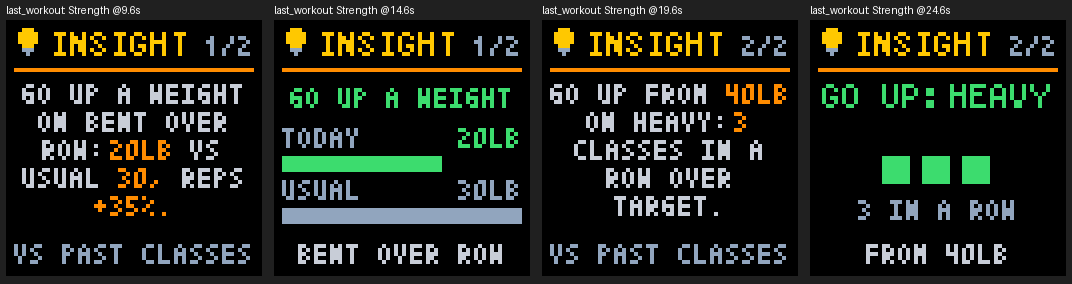
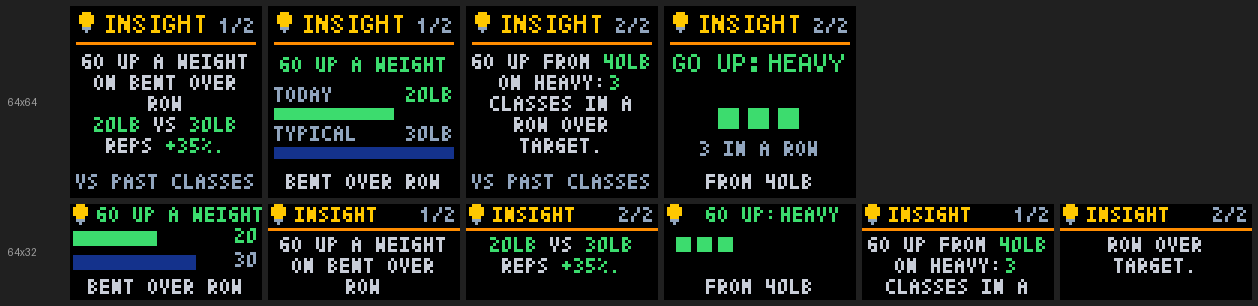
Docs: architecture diagrams, workout insights, Wi-Fi boot fix, README catch-up
- README: Architecture section with three Mermaid diagrams (the board's
  services and files, the display's data flow, releases and updates); a
  refreshed code map; a Workout insights section with new screenshots; and
  fixes for everything out of date (intro, name-page seconds, journey
  decimals, milestone celebrations, CI branches, pr_max_age_days,
  users[].journey, the full config example, the removed compact layout).
- Screenshots redrawn with today's code: journey, goals, next-milestone,
  both insights strips, and the bike and row bootcamp intros.
- docs/install.md and CLAUDE.md: the comitup boot race (hotspot after a cold
  boot with the saved Wi-Fi in range) and the drop-in that fixes it
  (LightningLane-Live-LED #222), plus the countdown's new wording.

diff --git a/README.md b/README.md
@@ -4,7 +4,7 @@
 
 ![Tests](https://github.com/jc214809/Peloton-LED/actions/workflows/tests.yml/badge.svg) [![codecov](https://codecov.io/gh/jc214809/Peloton-LED/graph/badge.svg)](https://codecov.io/gh/jc214809/Peloton-LED)
 
-A Python dashboard for a Raspberry Pi RGB LED matrix, with a desktop browser emulator. Shows every completed workout from your latest active day, one-time personal-record celebrations, username, and lifetime workout counts by discipline.
+A Python dashboard for a Raspberry Pi RGB LED matrix (64×64 or 64×32), with a desktop browser emulator. It shows every completed workout from your latest active day (with personal-record celebrations and optional insights against your similar workouts), your name with rotating highlights, streaks, a household head-to-head, lifetime counts by discipline, milestone countdowns and celebrations, your lifetime miles as a trip, a 12-week heatmap and weekly goals. Each board has a settings page and updates itself.
 
 ## Setup
 
@@ -82,8 +82,8 @@ Default order:
 
 | Section | What it shows | Shown when | Time on screen |
 |---|---|---|---|
-| [`latest_workouts`](#latest_workouts--last-active-days-workouts) | Every workout from your most recent active day, then a PR celebration after a record-setting one | Always (a status screen stands in when there's no workout data) | `last_workout_detail_interval` × (1 + number of stats), plus 1 s each for the graph and zone bar, per workout |
-| [`username`](#username--rider-name-and-highlights) | Your name over rotating highlights: total workouts, the two most interesting facts right now, then an instructor top 3 | Always | `duration`, shared by the highlights (at least 4 s each) |
+| [`latest_workouts`](#latest_workouts--last-active-days-workouts) | Every workout from your most recent active day, then a PR celebration after a record-setting one; optionally up to two insights comparing it with your similar workouts | Always (a status screen stands in when there's no workout data) | `last_workout_detail_interval` × (1 + number of stats), plus 1 s each for the graph, zone bar and each insight frame, per workout; then the PR card when there is one |
+| [`username`](#username--rider-name-and-highlights) | Your name over rotating highlights: total workouts, the two most interesting facts right now, then an instructor top 3 | Always | `duration`, shared by the highlights (at least 5 s each) |
 | [`streaks`](#streaks--weekly-and-daily-streaks) | Current weekly streak and your best, or your daily streak on alternate passes; or a weekend reminder when this week has no workout yet | Weekly streak above 0 or daily streak of 2+ days | `overview_duration` |
 | [`versus`](#versus--household-head-to-head) | Two riders side by side for this week | 2+ riders configured under `users` | `overview_duration` (64×32: shared by its 3 stats, at least 12 s) |
 | [`total_workouts`](#total_workouts--lifetime-total) | Lifetime total workout count | Profile totals available | Same as `lifetime` (at least 5 s) |
@@ -169,6 +169,25 @@ Every discipline then adds the graph and zone bar if they're available.
 
 ![PR workout followed by the PR celebration](docs/screenshots/rotation/pr-celebration.png)
 
+**Workout insights** (off by default). After a workout's stats and charts, the board can say how it compared with your similar earlier workouts, in up to two insights. It works for Cycling, Bike Bootcamp, Rowing, Row Bootcamp, Running, Walking, Tread Bootcamp and Strength. Every insight comes from fixed rules over your own numbers (no AI model), and a workout with nothing worth saying shows none.
+
+![Cycling insights: output down, then hardest ride by heart rate](docs/screenshots/rotation/insights-bike.png)
+
+![Strength insights: go up a weight, then three classes in a row over target](docs/screenshots/rotation/insights-strength.png)
+
+"Similar" means the same discipline, class type and mode (plain, arms or floor), indoor or outdoor, completed, and within 30% of the length, from the last year (two years if the last year has too few). Your typical figure is the middle of those workouts. What it can say, in the order it's chosen:
+
+| Insight | Colour | Example |
+|---|---|---|
+| Output (bike, rower) or speed (tread, walk, run) against your typical | Green up, amber down, white when it's in your typical range | `OUTPUT DOWN VS YOUR TYPICAL / 124 W VS 188 W`; `SAME HEART, MORE POWER.` when your heart rate was within 3 bpm of typical, else `MORE WATTS PER HEARTBEAT.` |
+| Instructor callouts you missed (bike resistance or cadence, rower or tread pace) | Amber | the share of the callout time spent under the range |
+| Strength weights, from that movement's history, else the weight category's | Green, or amber for missed targets | `GO UP A WEIGHT ON BENT OVER ROW`, `WENT HEAVIER`, `GO UP FROM 40LB ON HEAVY: 3 CLASSES IN A ROW OVER TARGET`, missed rep targets |
+| Effort by heart rate | Red hardest, green easiest | `HARDEST RIDE OF YOUR LAST 12 BY HEART RATE`, `STRIVE PER MIN` |
+
+On 64×64 each insight is a card (the sentence, and what it was compared with along the bottom: `9 SIMILAR RIDES`) and then bars (today against your typical, a share, or blocks for classes in a row). On 64×32 the bars come first, then the sentence on one or two pages of three lines. Each frame holds like a chart, `last_workout_detail_interval` plus one second, and adds to the workout page's time.
+
+Turn it on with `"workout_insights": true` under `display`, or the settings page's **Workout insights** card. The board needs your workout history to compare with: copy it once from a Mac that has it with `scripts/push_workout_rows.sh user@board`. After that the board adds each new workout itself, with one extra Peloton request per new workout. The card shows how many workouts each rider has on the board, and warns when the switch is on and a rider has none (that rider just gets no insights). With the switch off the board makes no extra requests and doesn't load the history. Preview them with `python scripts/render_rotation.py --height 64 --demo --insights`.
+
 Options:
 
 - `last_workout_detail_interval` (default `4`): seconds per intro/stat frame.
@@ -212,7 +231,7 @@ A full-size page with your lifetime workout count: the title in `color`, the num
 
 ![Next milestone countdown](docs/screenshots/rotation/next-milestone.png)
 
-A countdown in big type when you're close to a milestone: how many to go (`3 TO GO`, then a small `TILL YOUR`; with one left, `NEXT UP YOUR` instead), the milestone in gold with a raised ending (`2,200TH`), and what it counts (`WORKOUT`, or the discipline's noun in its colour from the `lifetime` page: `RIDE`, `RUN`, `WALK`, `ROW`, else its name), over a progress bar from the previous milestone. On 64x32 it reads `3 MORE / TO 2,200 / WORKOUTS` (the discipline's name there), with no bar.
+A countdown in big type when you're close to a milestone: how many to go (`3 TO GO`, then a small `TILL YOUR`; with one left, `NEXT ONE` then `IS YOUR` instead), the milestone in gold with a raised ending (`2,200TH`), and what it counts (`WORKOUT`, or the discipline's noun in its colour from the `lifetime` page: `RIDE`, `RUN`, `WALK`, `ROW`, else its name), over a progress bar from the previous milestone. On 64x32 it reads `3 MORE / TO 2,200 / WORKOUTS` (the discipline's name there), with no bar.
 
 Your total and each discipline follow the same rule: a page appears only when it's 5 or fewer workouts away (`milestone_within`), closest first and at most 3 pages (`milestone_pages`), so most of the time this section shows nothing. Your total's milestone is the next value in `milestones` above it, else the next multiple of `milestone_step` (default `100`). A discipline's are picked automatically: 25, 50, 100, then every 100. Discipline counts are Peloton's own per-discipline totals, the ones on the `lifetime` pages, so Bike, Tread and Row Bootcamp count separately from rides, runs and rows. Options: `screen_durations.next_milestone` / `overview_duration`, per page.
 
@@ -234,7 +253,7 @@ A GitHub-style grid: one column per week (oldest on the left, this week on the r
 
 ![Journey page](docs/screenshots/rotation/journey.png)
 
-Your lifetime miles as a trip: where you're headed, your total miles, how far is left on this leg and the percent done, a progress bar, and the miles split by how you covered them: **BIKE** (Cycling, Bike Bootcamp), **ROW** (Rowing, Row Bootcamp) and **WALK/RUN** (everything else: tread, outdoor, hiking). 64x64 shows it all on one page. 64x32 shows the trip, then *Miles by type*, sharing the screen's time (at least 4 seconds each; with only one type of miles it stays on the trip). Each step opens with about a second of motion, then holds still: the bar fills while the miles count up across this leg, the bar's tip then pulses gently, and the types come in one after another. Reaching the destination turns you around for the trip home (`TO COLUMBUS`), and so on forever. `TRIP 4` means you're on your fourth one-way leg. Miles show to a tenth (`741.6`) below 1,000 and in whole miles from there, where the decimal wouldn't fit. The route's `miles` can be a decimal too, e.g. `26.2`.
+Your lifetime miles as a trip: where you're headed, your total miles, how far is left on this leg and the percent done, a progress bar, and the miles split by how you covered them: **BIKE** (Cycling, Bike Bootcamp), **ROW** (Rowing, Row Bootcamp) and **WALK/RUN** (everything else: tread, outdoor, hiking). 64x64 shows it all on one page. 64x32 shows the trip, then *Miles by type*, sharing the screen's time (at least 4 seconds each; with only one type of miles it stays on the trip). Each step opens with about a second of motion, then holds still: the bar fills while the miles count up across this leg, the bar's tip then pulses gently, and the types come in one after another. Reaching the destination turns you around for the trip home (`TO COLUMBUS`), and so on forever. `TRIP 4` means you're on your fourth one-way leg. The total shows a tenth of a mile (`741.6`) on both boards, dropping it only where it won't fit; each type's miles show two decimals (`612.40`), fewer where they won't fit, and always add up to the total. The route's `miles` can be a decimal too, e.g. `26.2`.
 
 The default route is Columbus → Disney World, 880 miles, counting every workout that has a distance. Set your own:
 
@@ -294,7 +313,7 @@ Peloton rejected the token or it's missing, or renewal found the rider needs a f
 
 ## Phase 6 customization
 
-Weekly goals are optional. Set `weekly_goals.workouts` and/or `weekly_goals.minutes` to a positive number to add progress screens; zero disables that goal. Progress counts completed workouts from Monday at midnight in the configured/profile timezone. Set `milestones` to lifetime Total Workouts thresholds such as `[100, 250, 500, 1000]`. Each reached threshold celebrates once.
+Weekly goals are optional. Set `weekly_goals.workouts` and/or `weekly_goals.minutes` to a positive number to add progress screens; zero disables that goal. Progress counts completed workouts from Monday at midnight in the configured/profile timezone. Set `milestones` to lifetime Total Workouts thresholds such as `[100, 250, 500, 1000]`. Each reached threshold celebrates for the rest of the day it first shows (see [`milestones`](#milestones--milestone-celebration)).
 
 Set `brightness_schedule` to `null` to retain command-line brightness, or use a day/night schedule:
 
@@ -334,7 +353,7 @@ python -m pytest tests/ -q
 python -m pytest tests/ --cov --cov-report=term-missing   # with coverage
 ```
 
-GitHub Actions runs the tests with coverage on Python 3.11 and 3.13 for every pull request and push to `main`, and uploads the report to [Codecov](https://codecov.io/gh/jc214809/Peloton-LED) (the badges at the top).
+GitHub Actions runs the tests with coverage on Python 3.11 and 3.13 for every pull request and every push to `main` and `develop-beta`, and uploads the report to [Codecov](https://codecov.io/gh/jc214809/Peloton-LED) (the badges at the top).
 
 `--cycles 1` stops after one full rotation. Omit it to run continuously. Durations come from configuration; `--display-duration` overrides only the username screen. The PNG preview uses the same emulator text drawing and screen code, without starting a browser server.
 
@@ -370,6 +389,8 @@ Settings live under `display` in `config.json`. Invalid values produce a startup
 | `milestone_within` | `5` | A `next_milestone` page appears when your total or a discipline is this many workouts or fewer from its next milestone (at least 1) |
 | `milestone_pages` | `3` | At most this many `next_milestone` pages, closest first (at least 1) |
 | `journey` | Columbus → Disney World, 880 mi, every workout with a distance | Lifetime miles shown as a trip: `{"from": "Columbus", "to": "Disney World", "miles": 880}`. Any places and distance; optional `"disciplines"` list narrows which workouts count (see [`journey`](#journey--lifetime-miles-as-a-trip)); also settable per rider under `users[]`. Optional `"start_date": "YYYY-MM-DD"` counts only miles from that day on (display timezone); changing it recounts the full history once on the next refresh |
+| `pr_max_age_days` | `null` | Skip PR celebrations for workouts older than this many days; `null` celebrates any PR not yet shown |
+| `workout_insights` | `false` | After the latest workout, up to two comparisons with your similar earlier workouts. See [Workout insights](#latest_workouts--last-active-days-workouts) |
 | `brightness_schedule` | `null` | Optional day/night brightness schedule. See [Phase 6 customization](#phase-6-customization) |
 | `refresh_schedule` | `null` | Optional overnight quiet-hours polling schedule. See [Phase 6 customization](#phase-6-customization) |
 
@@ -401,24 +422,36 @@ Each refresh saves Peloton's output personal-records table (one record per disci
       "cache_path": "dashboard-cache-joel.json",
       "username": "Joel",
       "weekly_goals": { "workouts": 5, "minutes": 0 },
-      "milestones": [100, 250, 500]
+      "milestones": [100, 250, 500],
+      "journey": { "from": "Columbus", "to": "Disney World", "miles": 880 }
     }
   ],
   "display": {
     "font": "stats",
     "color": "white",
-    "duration": 9,
+    "duration": 30,
     "overview_duration": 4,
     "last_workout_detail_interval": 4,
     "logo_duration": 5,
+    "show_logo": true,
     "logo_path": null,
     "timezone": "America/New_York",
     "refresh_interval": 300,
     "recent_fetch_size": 20,
     "history_batch_size": 100,
     "performance_cache_size": 32,
-    "rotation": ["username", "latest_workouts", "total_workouts", "lifetime", "milestones", "goals"],
-    "screen_durations": { "username": 9, "lifetime": 5, "milestones": 5.8, "goals": 4 },
+    "rotation": ["latest_workouts", "username", "streaks", "versus", "total_workouts",
+                 "next_milestone", "lifetime", "journey", "heatmap", "milestones", "goals"],
+    "screen_durations": { "username": 30, "lifetime": 5, "milestones": 5.8, "goals": 4 },
+    "weekly_goals": { "workouts": 3, "minutes": 300 },
+    "milestones": [250, 500, 1000, 2000],
+    "milestone_step": 100,
+    "milestone_within": 5,
+    "milestone_pages": 3,
+    "streak_reminder_day": 5,
+    "pr_max_age_days": null,
+    "workout_insights": false,
+    "journey": { "from": "Columbus", "to": "Disney World", "miles": 880 },
     "brightness_schedule": null,
     "refresh_schedule": null
   }
@@ -440,6 +473,7 @@ Top-level and per-user fields, and whether each is required:
 | `users[].password_env` | No | Only used for unattended token renewal |
 | `users[].weekly_goals` | No | Falls back to `display.weekly_goals` when omitted |
 | `users[].milestones` | No | Falls back to `display.milestones` when omitted |
+| `users[].journey` | No | Falls back to `display.journey` when omitted |
 | `matrix` | No | LED panel/driver settings, e.g. `{"rows": 32, "gpio_mapping": "adafruit-hat"}`; one key per `--led-*` flag, see the [Installation Guide](docs/install.md#every-peloton_ledpy-command-line-flag). Defaults to a 64×64 panel |
 | `display` | No | Omit entirely to use every default in the table above |
 | every `display.*` key | No | See the configuration table above for each default |
@@ -448,20 +482,158 @@ Top-level and per-user fields, and whether each is required:
 
 Both **64×64** and **64×32** panels are supported; for 64×32 set `"matrix": {"rows": 32}` in `config.json` (or pass `--led-rows 32`). Panels can't report their size, so it has to be set. On 64×32 the workout screen uses the same intro-then-rotating-stats layout as 64×64, adapted to fit: the instructor is the first rotating stat, and the heart-rate/calories bar shows during the stats. See [docs/64x32-NOTES.md](docs/64x32-NOTES.md) for every difference. Preview either size with `python scripts/render_rotation.py --height 32 --demo`.
 
-Live mode cycles through every completed workout on the latest active day. Every discipline uses a safe common layout; cycling/bike bootcamp, running/walking/tread, and rowing/row bootcamp add discipline-specific statistics when Peloton supplies them. Unknown future disciplines still show discipline, title, duration, heart rate, calories, and compatible common metrics. Lifetime totals preserve every discipline and its exact count in separate pixel-icon tiles, four per page on 64×64 and two per page on 64×32. No disciplines are combined. Goals, milestones, scheduled brightness, configurable rotation, and optional two-page 32-row workout details are implemented in Phase 6.
+Live mode cycles through every completed workout on the latest active day. Every discipline uses a safe common layout; cycling/bike bootcamp, running/walking/tread, and rowing/row bootcamp add discipline-specific statistics when Peloton supplies them. Unknown future disciplines still show discipline, title, duration, heart rate, calories, and compatible common metrics. Lifetime totals preserve every discipline and its exact count in separate pixel-icon tiles, four per page on 64×64 and two per page on 64×32. No disciplines are combined. Goals, milestones, scheduled brightness and configurable rotation are implemented in Phase 6.
 
 ## Code map
 
 - `peloton_led.py`: startup and screen rotation
+- `peloton/config.py`: loading and validating `config.json`, per-rider settings
 - `peloton/dashboard.py`, `peloton/cache.py`: background refresh, token reload, snapshots, and recovery
 - `peloton/api.py`: authenticated requests and bounded history pagination
+- `peloton/workout_log.py`: every workout as a slim row, the source of everything derived
+- `peloton/activity.py`, `journey.py`, `goals.py`, `instructors.py`: streaks, heatmap, time frames, journey miles, milestones, instructor counts
+- `peloton/username_facts.py`: the name page's scored highlights
+- `peloton/workout_features.py`, `workout_compare.py`, `workout_insights.py`, `insight_lines.py`, `workout_rows.py`: workout compare and the board's insight pages
 - `peloton/timestamps.py`, `selection.py`, `records.py`, `totals.py`: shared data and lifetime pagination rules
 - `peloton/summaries.py`: metric normalization for screens and reports
+- `peloton/screen_times.py`, `schedule.py`: screen durations, and polling Peloton less often overnight
+- `peloton/notify.py`: Pushover alerts
 - `display/ui/`: screens, the login indicator, the settings PIN overlay and the Wi-Fi setup screen
-- `settings_page/`: the board's settings page (config form, PIN sign-in, its own service)
+- `settings_page/`: the board's settings page (config form, PIN sign-in, logins, updates, power menu; its own service)
+- `self_update/`: `peloton-update` (channels, pre-flight, health check, rollback)
 - `driver/`: hardware/emulator selection
+- `utils/`: matrix settings, health heartbeat, Wi-Fi setup state
 - `scripts/refresh_cookies.py`: browser login, refresh-token renewal, board seeding, and verified token saving
-- `scripts/render_demo.py`: reproducible screen preview
+- `scripts/render_rotation.py`, `render_demo.py`: screen previews (PNG contact sheets)
+- `scripts/list_facts.py`, `workout_insights.py`: checking name-page facts and insights against a real log
+
+## Architecture
+
+### On the board
+
+Four systemd units share one config and the files under `/var/lib/peloton-led`. The display needs no network after start-up; the settings page is its own service, so a config that stops the display can still be fixed.
+
+```mermaid
+flowchart LR
+    subgraph cloud["Internet"]
+        peloton["Peloton API<br/>api.onepeloton.com"]
+        auth0["Peloton login<br/>Auth0 refresh tokens"]
+        github["GitHub<br/>tags and releases"]
+        pushover["Pushover<br/>phone alerts"]
+    end
+
+    subgraph pi["Raspberry Pi"]
+        subgraph units["systemd"]
+            display["peloton-led.service<br/>peloton_led.py<br/>starts as root, drops to peloton-led"]
+            settings["peloton-settings.service<br/>settings_page/server.py<br/>port 8080, root"]
+            timer["peloton-token-refresh.timer<br/>hourly"]
+            renew["peloton-token-refresh.service<br/>scripts/refresh_cookies.py --ensure"]
+            update["peloton-update<br/>self_update/"]
+            comitup["comitup<br/>Wi-Fi or setup hotspot"]
+        end
+
+        subgraph files["Files"]
+            config["config.json<br/>checkout, bound to /etc/peloton-led"]
+            authenv["auth.env<br/>logins, Pushover keys"]
+            tokens["cookies-*.txt + .refresh.json<br/>tokens per rider"]
+            cache["dashboard cache .json<br/>workout log .workouts.json<br/>workout rows .workout-rows.json"]
+            run["/run: health heartbeat,<br/>settings PIN, comitup-state"]
+        end
+
+        panel["RGB LED matrix<br/>64x64 or 64x32"]
+    end
+
+    browser["Phone or laptop browser"]
+
+    timer --> renew
+    renew -- "refresh token" --> auth0
+    renew --> tokens
+    renew -- "failures, recovery" --> pushover
+
+    display -- "token" --> tokens
+    display -- "overview, workouts, graphs" --> peloton
+    display <--> cache
+    display --> config
+    display --> panel
+    display -- "heartbeat" --> run
+    run -- "PIN, hotspot state" --> display
+
+    browser -- "PIN sign-in" --> settings
+    settings -- "validate, .bak, atomic save" --> config
+    settings --> authenv
+    settings -- "restart, stop, reboot, shut down" --> display
+    settings -- "renew now" --> renew
+    settings -- "check, update, roll back" --> update
+    settings -- "PIN" --> run
+
+    update -- "git fetch" --> github
+    update -- "health check, rollback" --> run
+    update -- "failure alert" --> pushover
+
+    comitup -- "state" --> run
+```
+
+### Inside the display
+
+`Dashboard` refreshes on a background thread; the display loop only reads its snapshot, so a slow or failed fetch never stalls the panel.
+
+```mermaid
+flowchart TB
+    subgraph start["Start-up: peloton_led.py main()"]
+        cfg["peloton/config.py<br/>load and validate config"]
+        matrix["driver/<br/>rgbmatrix or emulator"]
+        fonts["display/display.py<br/>fonts and colours"]
+        profiles["configured_profiles<br/>one Dashboard per rider"]
+    end
+
+    subgraph data["Data: peloton/, one background thread per rider"]
+        api["api.py PelotonClient<br/>Bearer token, 401 = login required"]
+        dash["dashboard.py Dashboard<br/>refresh, cache, stale and login flags"]
+        log["workout_log.py WorkoutLog<br/>every workout, backfilled in batches"]
+        derived["Derived from the log<br/>activity.py streaks, heatmap, time frames<br/>journey.py miles<br/>goals.py milestones<br/>instructors, records, totals"]
+        facts["username_facts.py<br/>name-page highlights, scored with cool-down"]
+        insight["workout_features.py<br/>workout_compare.py<br/>workout_insights.py<br/>insight_lines.py"]
+        rows["workout_rows.py RowStore"]
+        snap["Snapshot<br/>summaries, totals, goals, events, insights"]
+    end
+
+    subgraph loop["Display loop: no network calls"]
+        rot["build_rotation_pages<br/>rotation order, screen_times.py"]
+        mgr["display/ui/manager.py ScreenManager<br/>show_and_wait"]
+        screens["display/ui screens<br/>logo, username, latest workout,<br/>streaks, versus, lifetime, heatmap,<br/>journey, goals, countdown, celebrations"]
+        overlays["Overlays<br/>login padlock, stale, settings PIN, Wi-Fi setup"]
+    end
+
+    cfg --> profiles
+    matrix --> mgr
+    fonts --> screens
+    profiles --> dash
+    api --> dash
+    dash --> log --> derived --> snap
+    derived --> facts --> snap
+    dash --> insight
+    insight <--> rows
+    insight --> snap
+    snap --> rot --> mgr --> screens
+    overlays --> mgr
+    mgr -- "acknowledge milestones, PRs, name facts" --> dash
+```
+
+### Releases and updates
+
+```mermaid
+flowchart LR
+    pr["Pull request<br/>needs Release notes"] -- "CI: pytest 3.11 and 3.13, coverage" --> beta["develop-beta<br/>tag vX.Y.N-beta"]
+    beta -- "release PR" --> main["main<br/>tag vX.Y.0 + GitHub release"]
+    beta -- "Beta channel, once CI passes" --> board["Board: peloton-update"]
+    main -- "Releases channel" --> board
+    board --> pre["Pre-flight: space, throttling,<br/>clean checkout, GitHub"]
+    pre --> point["Rollback point:<br/>commit, pip freeze, config"]
+    point --> install["git checkout, pip,<br/>peloton-install.sh"]
+    install --> health{"Healthy within 5 min?<br/>heartbeat, settings on 8080"}
+    health -- "yes" --> done["outcome.json: updated"]
+    health -- "no" --> rollback["Roll back + Pushover alert"]
+```
 
 ## Phase 3 validation
 
@@ -487,6 +659,7 @@ Or change it from a browser: the **[settings page](docs/install.md#settings-page
 - **Updates**: what's installed, a check for a newer release or Beta (with each change's release notes), *Update now* and *Roll back*.
 - **Logins**: token renewal's status (how often it checks, when it next checks, and when each rider's token will actually renew), a card per rider, and *Renew now*. Click a rider's *Email & password* row to change their login.
 - **Pushover alerts**: whether alerts are on, a test alert, and the keys.
+- **Workout insights**: the switch for the comparisons after your latest workout, and how many earlier workouts each rider has on the board to compare with.
 - **General**, **Rotation**, **Timing**, **Goals**, **Schedules**, **Panel** and **Advanced**: everything in `config.json`'s `display` and `matrix` sections a person would change.
 
 ### Updating

diff --git a/CLAUDE.md b/CLAUDE.md
@@ -81,7 +81,7 @@ For Sixel support in the emulator (optional): `brew install libsixel` on macOS.
 3. Registers screens with `ScreenManager`, shows a startup logo, then enters the display loop
 4. The loop cycles: logo → username → recent workout disciplines → all-time discipline totals
 
-A reached milestone (`dashboard.pending_milestones`) is celebrated by `display/ui/celebration_screen.py` (`CelebrationScreen`: confetti and a rising trophy, then the number with a small raised ordinal ending (`_ordinal_line`; `_CAP_HEIGHTS` lines it up and `_COMMA_INK` closes up the comma in `2,000`, both measured once since the Pi's fonts can't be measured by drawing), or a headline / noun / subtitle, confetti drawn first so the trophy and text paint over it, every off pixel fair game; 20 fps via `frame_seconds`, which `show_and_wait` honours; `ordinal`; `milestone_noun` for the total, `discipline_noun` for a discipline's (a bootcamp keeps its own name, and `_noun_line` falls back to the last word, `BOOTCAMP`, where it doesn't fit)). `build_rotation_pages` puts it first, whatever the `milestones` section's place, and only one per pass: the newest pending total, or a discipline's (`pending_discipline_milestones`), taking turns by `pass_index` when several are due; `acknowledge_milestone` retires older pending ones and records the first showing in the cache's `milestone_shown_at`; it keeps showing until midnight that day (`goals.local_date` in `display.timezone`, else the profile's, else UTC), then moves to `celebrated_milestones`. Per-discipline milestones (`peloton/goals.py`: targets 25, 50, 100, then every 100, from Peloton's overview `totals`, not the workout log, so they match the Lifetime pages and need no backfill) are keyed `strength:500` and kept apart in `celebrated_discipline_milestones` / `discipline_milestone_shown_at`, so the old int-only `celebrated_milestones` check never sees a string; `acknowledge_milestone` takes either. The `next_milestone` section is one countdown for the total and every discipline (merged 2026-11-08 at Joel's request; there is no separate discipline section): `goals.upcoming_milestones` lists whatever is within `display.milestone_within` (5) of its target (the total's from `next_milestone`: configured `milestones`, else `milestone_step`), closest first (the total wins a tie), at most `milestone_pages` (3), so usually none. Each is a `countdown` page drawn by `display/ui/countdown_screen.py` (64 rows `3 TO GO / TILL YOUR / 600TH / RIDE` (baselines 16/25/42/54, bar at 58), and `NEXT UP YOUR / 600TH / RIDE` when one is left, the celebration's `discipline_noun`, the total `WORKOUT`; 32 rows keep `3 MORE / TO 600 / CYCLING`, the total `WORKOUTS`; the name in `lifetime_overview.discipline_color`; `bold` 7x13B on 64 rows (the name too: `title_bold` 6x13B only for STRETCHING and MEDITATION, which don't fit in bold, since 6x13B squashed STRENGTH and WORKOUT); the name is 6x9 on 32 rows, since 5x8's narrow G and T spaced out `S TRENG TH`; `celebration_screen.ordinal_line`). A discipline's celebration uses the same fixed `STEP_CELEBRATION_WINDOW` (10) as the total's step; the old `discipline_milestone_celebrate_within` setting was dropped 2026-11-08 (ignored if present; `settings_page.form.RETIRED_DISPLAY_KEYS` removes it on save). The settings page's Milestones card (`milestone-settings`, after Goals) holds `milestones`, `milestone_step`, `milestone_within`, `milestone_pages` and each rider's `milestones`; Goals keeps weekly goals, the streak reminder and each rider's name and goals. `render_rotation.PreviewDashboard` has no celebration history, so it only celebrates a total milestone crossed within that window (it used to show 2,000TH at 2,123). The demo data has Rowing at 22 and Running at 204 so `--demo` shows both a countdown and a celebration.
+A reached milestone (`dashboard.pending_milestones`) is celebrated by `display/ui/celebration_screen.py` (`CelebrationScreen`: confetti and a rising trophy, then the number with a small raised ordinal ending (`_ordinal_line`; `_CAP_HEIGHTS` lines it up and `_COMMA_INK` closes up the comma in `2,000`, both measured once since the Pi's fonts can't be measured by drawing), or a headline / noun / subtitle, confetti drawn first so the trophy and text paint over it, every off pixel fair game; 20 fps via `frame_seconds`, which `show_and_wait` honours; `ordinal`; `milestone_noun` for the total, `discipline_noun` for a discipline's (a bootcamp keeps its own name, and `_noun_line` falls back to the last word, `BOOTCAMP`, where it doesn't fit)). `build_rotation_pages` puts it first, whatever the `milestones` section's place, and only one per pass: the newest pending total, or a discipline's (`pending_discipline_milestones`), taking turns by `pass_index` when several are due; `acknowledge_milestone` retires older pending ones and records the first showing in the cache's `milestone_shown_at`; it keeps showing until midnight that day (`goals.local_date` in `display.timezone`, else the profile's, else UTC), then moves to `celebrated_milestones`. Per-discipline milestones (`peloton/goals.py`: targets 25, 50, 100, then every 100, from Peloton's overview `totals`, not the workout log, so they match the Lifetime pages and need no backfill) are keyed `strength:500` and kept apart in `celebrated_discipline_milestones` / `discipline_milestone_shown_at`, so the old int-only `celebrated_milestones` check never sees a string; `acknowledge_milestone` takes either. The `next_milestone` section is one countdown for the total and every discipline (merged 2026-11-08 at Joel's request; there is no separate discipline section): `goals.upcoming_milestones` lists whatever is within `display.milestone_within` (5) of its target (the total's from `next_milestone`: configured `milestones`, else `milestone_step`), closest first (the total wins a tie), at most `milestone_pages` (3), so usually none. Each is a `countdown` page drawn by `display/ui/countdown_screen.py` (64 rows `3 TO GO / TILL YOUR / 600TH / RIDE` (baselines 16/25/42/54, bar at 58), and `NEXT ONE / IS YOUR / 600TH / RIDE` in the same places when one is left (4 lines since 2026-11-12, Joel's pick from 8 mock-ups; it was 3 with a squeezed `NEXT UP YOUR`), the celebration's `discipline_noun`, the total `WORKOUT`; 32 rows keep `3 MORE / TO 600 / CYCLING`, the total `WORKOUTS`; the name in `lifetime_overview.discipline_color`; `bold` 7x13B on 64 rows (the name too: `title_bold` 6x13B only for STRETCHING and MEDITATION, which don't fit in bold, since 6x13B squashed STRENGTH and WORKOUT); the name is 6x9 on 32 rows, since 5x8's narrow G and T spaced out `S TRENG TH`; `celebration_screen.ordinal_line`). A discipline's celebration uses the same fixed `STEP_CELEBRATION_WINDOW` (10) as the total's step; the old `discipline_milestone_celebrate_within` setting was dropped 2026-11-08 (ignored if present; `settings_page.form.RETIRED_DISPLAY_KEYS` removes it on save). The settings page's Milestones card (`milestone-settings`, after Goals) holds `milestones`, `milestone_step`, `milestone_within`, `milestone_pages` and each rider's `milestones`; Goals keeps weekly goals, the streak reminder and each rider's name and goals. `render_rotation.PreviewDashboard` has no celebration history, so it only celebrates a total milestone crossed within that window (it used to show 2,000TH at 2,123). The demo data has Rowing at 22 and Running at 204 so `--demo` shows both a countdown and a celebration.
 
 `run_multi_user_loop` plays the logo (`display.logo_duration` seconds, unless `display.show_logo` is false) before each rider's rotation except the first one after start-up, so a single-rider board shows it once per cycle.
 
@@ -128,7 +128,7 @@ The board shows at most 2 insights (`insight_lines.MAX_BOARD_INSIGHTS`, the firs
 
 ### Settings page (`settings_page/`)
 
-`python -m settings_page.server` (`peloton-settings.service`, port 8080, root, its own service so a config that stops the display can be fixed; ported from LightningLane-Live-LED's). `form.py` is config ⇄ form (only shown keys change; requires the hidden `settings_form` field since unticked switches post nothing; every check is `peloton.config.validate_config` on a copy, so `load_config` and the page agree), `page.py` the HTML (inline CSS/JS, works without JS; rotation rows drag by a grip with pointer events (mouse and touch; arrow keys on the grip), a switched-off screen drops to the bottom and a switched-on one joins the end of the numbered ones; `tests/test_settings_form.py` parses it like a browser, and saving an unchanged page must load the same), `pins.py` the PIN gate, `server.py` stdlib HTTP. Riders are matched by index plus a hidden name check; names, token/cache paths, `*_env` and the journey are never on the page. Logins card (`logins.py`, no HTTP/HTML): health from renewal's own files via `scripts/refresh_cookies.py` helpers (`token_status`, `load_refresh_chain`/`describe_chain`, the `.renewal-failed` marker honoured only while newer than the token, `.browser-attempt`, `token-alert-state.json`, `/etc/peloton-led/token-mode`), unit state from `systemctl show`; *Renew now* is `systemctl start --no-block peloton-token-refresh.service`; the Logins card shows renewal as labelled rows (`page.renewal_status`, times via `systemctl show --timestamp=unix` → `server.unix_time`; a running one is followed by `/renew/status`), and each rider is a `<details class="rider-card">` (`page._login_status`: closed while healthy, open when not), whose Email & password row is a `<details class="cred">` holding that rider's own form (only their `cred_<key>_*` fields; a 400 reopens it via `editing_rider`; Cancel is JS-only); renewal times come from `logins.renews_at` (first hourly check within `RENEW_BEFORE_S` of expiry; `CHECK_EVERY_S`/`RENEW_BEFORE_S` mirror the timer's `OnUnitActiveSec=1h` and the service's `--renew-before-hours 12`, and a test fails if they drift); the renewal timer is OnBootSec/OnUnitActiveSec, so systemd leaves `NextElapseUSecRealtime` blank and `Settings.next_elapse` reads `NextElapseUSecMonotonic` (a timespan since boot) instead, which is why PelotonPi once said "Not scheduled" while the timer ran; *Compact workout pages* is shown only on 64x32, so the form posts `COMPACT_SHOWN` beside it and `apply_form` leaves the saved value alone without it (an unticked switch posts nothing); the Rotation list's column headings (`ROTATION_COLUMNS`, ⓘ tooltips) sit outside the `<ol>` so the drag code never sees them; the top bar's Power menu (`page.power_menu`, shown with Sign out, so not on the hotspot page; a `<details>` of one-button `_post` forms with `data-confirm`, so it works without JS and asks first with it) posts `action` to `/power` (`Handler._power`, `Settings.power`, `POWER_ACTIONS`): `restart-display` / `stop-display` / `start-display` (`systemctl <verb> --no-block <display unit>`; Start replaces Stop when `display_running` is False) and `reboot` / `poweroff` (`systemctl --no-block reboot|poweroff`); same-origin check, a PIN session even on the hotspot (like `/credentials`), 409 while an update runs, 400 for an unknown action, no systemctl → `?power=unavailable`, a failure → `?power=failed-<action>` with stderr in the log; reboot/poweroff send their message page *before* running the command (so a failure there is only logged); Pushover keys and the test alert are their own card (`page.alerts_card`, its form posts `card=alerts` to `/credentials`, outcomes `?alerts=`); credentials are write-only: `update_auth_env` rewrites only the changed lines (setup_config.py's quoting, 600, no .bak), the page only ever gets set/not-set, the log only names what changed, and `/credentials` needs a PIN session even on the hotspot. Relative token paths start from `--token-base` (/etc/peloton-led, as the display sees its config), not the checkout. PIN-page states live at `/signin`. The PIN goes to `/run/peloton-led-settings/pin` (`RuntimeDirectory`, group peloton-led, 0640) and `display/ui/settings_pin.py` draws it in `ScreenManager.tick`; `show_and_wait` repaints when it appears/goes, like the padlock. Wi-Fi: `utils/wifi_setup.py` reads comitup's `/run/comitup-state` (written by LLL's `board-setup.sh`); while `HOTSPOT`, a browser in 10.41.0.0/16 needs no PIN and `run_multi_user_loop` holds the `wifi_setup` screen each cycle. Save: validate, `.bak`, atomic write keeping owner/mode, then `restart_app`: `not_running` (manual board off) / `restarted` / `failed` / `saved` (no systemd). The display's config is a read-only bind of the checkout file, so the settings service gets the real path and its folder via its own `project-config.conf` drop-in; the atomic replace is picked up when the display restarts. Installer: `resolve_settings_page` (flag, else on unless installed-and-disabled), `start_settings_page` after `start_or_restart_display`.
+`python -m settings_page.server` (`peloton-settings.service`, port 8080, root, its own service so a config that stops the display can be fixed; ported from LightningLane-Live-LED's). `form.py` is config ⇄ form (only shown keys change; requires the hidden `settings_form` field since unticked switches post nothing; every check is `peloton.config.validate_config` on a copy, so `load_config` and the page agree), `page.py` the HTML (inline CSS/JS, works without JS; rotation rows drag by a grip with pointer events (mouse and touch; arrow keys on the grip), a switched-off screen drops to the bottom and a switched-on one joins the end of the numbered ones; `tests/test_settings_form.py` parses it like a browser, and saving an unchanged page must load the same), `pins.py` the PIN gate, `server.py` stdlib HTTP. Riders are matched by index plus a hidden name check; names, token/cache paths, `*_env` and the journey are never on the page. Logins card (`logins.py`, no HTTP/HTML): health from renewal's own files via `scripts/refresh_cookies.py` helpers (`token_status`, `load_refresh_chain`/`describe_chain`, the `.renewal-failed` marker honoured only while newer than the token, `.browser-attempt`, `token-alert-state.json`, `/etc/peloton-led/token-mode`), unit state from `systemctl show`; *Renew now* is `systemctl start --no-block peloton-token-refresh.service`; the Logins card shows renewal as labelled rows (`page.renewal_status`, times via `systemctl show --timestamp=unix` → `server.unix_time`; a running one is followed by `/renew/status`), and each rider is a `<details class="rider-card">` (`page._login_status`: closed while healthy, open when not), whose Email & password row is a `<details class="cred">` holding that rider's own form (only their `cred_<key>_*` fields; a 400 reopens it via `editing_rider`; Cancel is JS-only); renewal times come from `logins.renews_at` (first hourly check within `RENEW_BEFORE_S` of expiry; `CHECK_EVERY_S`/`RENEW_BEFORE_S` mirror the timer's `OnUnitActiveSec=1h` and the service's `--renew-before-hours 12`, and a test fails if they drift); the renewal timer is OnBootSec/OnUnitActiveSec, so systemd leaves `NextElapseUSecRealtime` blank and `Settings.next_elapse` reads `NextElapseUSecMonotonic` (a timespan since boot) instead, which is why PelotonPi once said "Not scheduled" while the timer ran; *Compact workout pages* is shown only on 64x32, so the form posts `COMPACT_SHOWN` beside it and `apply_form` leaves the saved value alone without it (an unticked switch posts nothing); the Rotation list's column headings (`ROTATION_COLUMNS`, ⓘ tooltips) sit outside the `<ol>` so the drag code never sees them; the top bar's Power menu (`page.power_menu`, shown with Sign out, so not on the hotspot page; a `<details>` of one-button `_post` forms with `data-confirm`, so it works without JS and asks first with it) posts `action` to `/power` (`Handler._power`, `Settings.power`, `POWER_ACTIONS`): `restart-display` / `stop-display` / `start-display` (`systemctl <verb> --no-block <display unit>`; Start replaces Stop when `display_running` is False) and `reboot` / `poweroff` (`systemctl --no-block reboot|poweroff`); same-origin check, a PIN session even on the hotspot (like `/credentials`), 409 while an update runs, 400 for an unknown action, no systemctl → `?power=unavailable`, a failure → `?power=failed-<action>` with stderr in the log; reboot/poweroff send their message page *before* running the command (so a failure there is only logged); Pushover keys and the test alert are their own card (`page.alerts_card`, its form posts `card=alerts` to `/credentials`, outcomes `?alerts=`); credentials are write-only: `update_auth_env` rewrites only the changed lines (setup_config.py's quoting, 600, no .bak), the page only ever gets set/not-set, the log only names what changed, and `/credentials` needs a PIN session even on the hotspot. Relative token paths start from `--token-base` (/etc/peloton-led, as the display sees its config), not the checkout. PIN-page states live at `/signin`. The PIN goes to `/run/peloton-led-settings/pin` (`RuntimeDirectory`, group peloton-led, 0640) and `display/ui/settings_pin.py` draws it in `ScreenManager.tick`; `show_and_wait` repaints when it appears/goes, like the padlock. Wi-Fi: `utils/wifi_setup.py` reads comitup's `/run/comitup-state` (written by LLL's `board-setup.sh`); while `HOTSPOT`, a browser in 10.41.0.0/16 needs no PIN and `run_multi_user_loop` holds the `wifi_setup` screen each cycle. A hotspot after a cold boot with the saved Wi-Fi in range was a comitup/`wlan0` boot race (PelotonPi, 2026-11-11), fixed by LLL's `board-setup.sh` drop-in (`comitup.service.d/wait-for-wifi.conf`, LLL #222); updates don't add it, so troubleshooting in `docs/install.md` gives the hand steps. Save: validate, `.bak`, atomic write keeping owner/mode, then `restart_app`: `not_running` (manual board off) / `restarted` / `failed` / `saved` (no systemd). The display's config is a read-only bind of the checkout file, so the settings service gets the real path and its folder via its own `project-config.conf` drop-in; the atomic replace is picked up when the display restarts. Installer: `resolve_settings_page` (flag, else on unless installed-and-disabled), `start_settings_page` after `start_or_restart_display`.
 
 Tokens come from `scripts/refresh_cookies.py` (browser login once, then Auth0 refresh tokens; see Pi config above).
 

diff --git a/docs/install.md b/docs/install.md
@@ -595,6 +595,9 @@ Wi-Fi is in range. While it's up, the display shows *Wi-Fi setup / Join
 <board>-setup*, then *Settings / Browse to 10.41.0.1:8080*, until the board is
 back on a network; comitup's own page (http://10.41.0.1) picks the network.
 Anyone on the hotspot gets the settings page with no PIN (they're in the room).
+comitup waits for the Wi-Fi chip at boot before deciding, so a cold start near
+a saved network joins it instead of opening the hotspot (see
+[Troubleshooting](#troubleshooting)).
 
 Which file it edits: the checkout's `config.json` when the installer found one
 (a `project-config.conf` drop-in under
@@ -766,6 +769,26 @@ and create each rider's token with
   can see what the headless browser was actually looking at — a cookie
   banner, a CAPTCHA, a bot-detection challenge, or Peloton having changed
   the login page. Check that file rather than guessing from the log alone.
+- **Setup hotspot after a power cut, though the saved Wi-Fi is in range** — on
+  a cold boot comitup could start before the Wi-Fi chip (`wlan0`) existed,
+  find no network to try and open `<board>-setup` at once (PelotonPi,
+  2026-11-11: `HOTSPOT` one second after start, and `journalctl -u comitup`
+  said `wlan0 does not currently exist`). It isn't a lost password, and the
+  saved network is still in `nmcli connection show`. LightningLane-Live-LED's
+  `board-setup.sh` (v2.0.15-beta on) writes
+  `/etc/systemd/system/comitup.service.d/wait-for-wifi.conf`, which makes
+  comitup wait for `wlan0` and then 10 more seconds; normal updates don't add
+  it, so re-run `board-setup.sh` (or `LLL-install.sh`) on an older board, or
+  write it by hand:
+  ```bash
+  sudo mkdir -p /etc/systemd/system/comitup.service.d
+  printf '[Unit]\nWants=sys-subsystem-net-devices-wlan0.device\nAfter=sys-subsystem-net-devices-wlan0.device\n\n[Service]\nExecStartPre=/bin/sleep 10\n' \
+    | sudo tee /etc/systemd/system/comitup.service.d/wait-for-wifi.conf
+  sudo systemctl daemon-reload
+  ```
+  `systemctl cat comitup` shows it once it's in place. If a board is stuck on
+  the hotspot right now, wait 3-5 minutes without joining it: comitup retries
+  the saved networks, but skips that retry while a phone is on the hotspot.
 - **Diagnostic commands:**
   ```bash
   sudo systemctl status peloton-led.service
